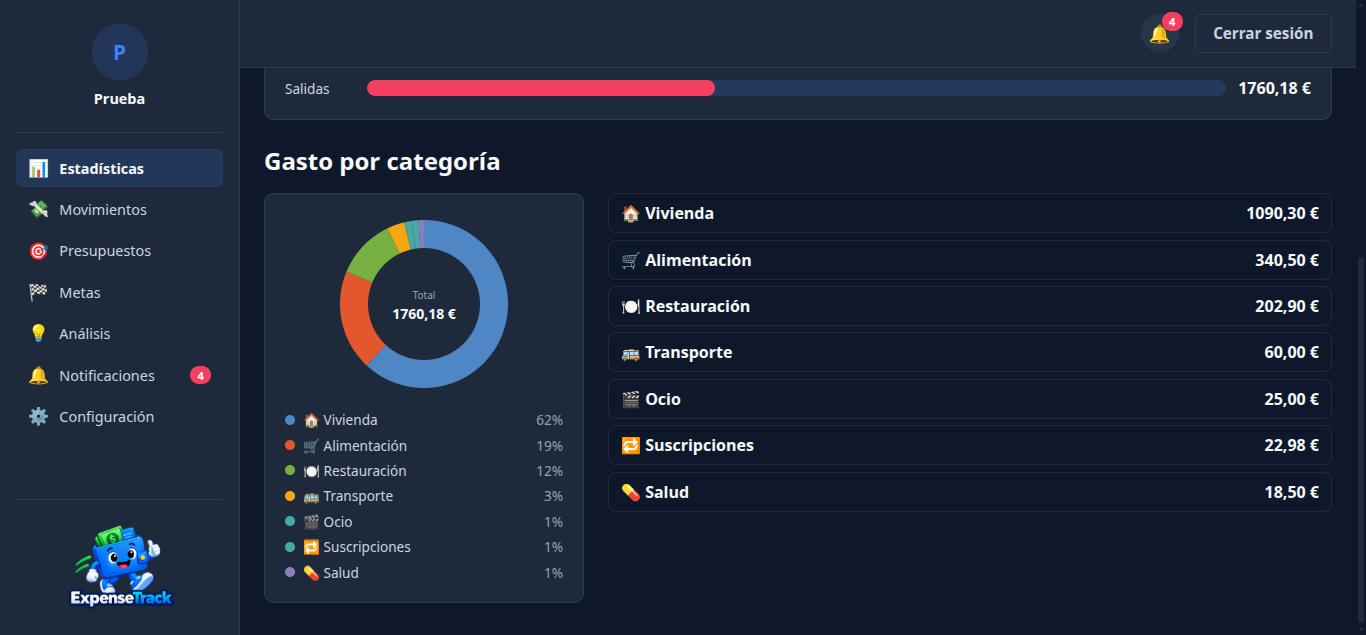
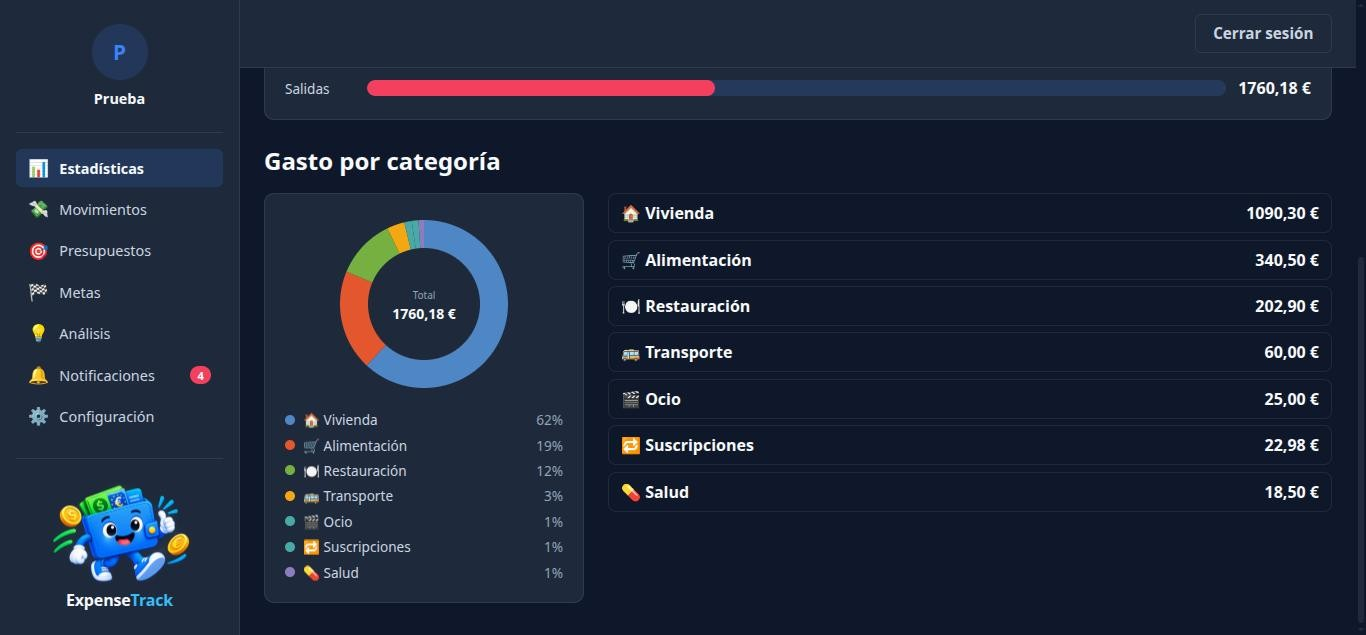
docs: capturas del README actualizadas y vista móvil
Capturas nuevas con la mascota y sin la campanita repetida; se añaden el
inicio de sesión y la vista móvil (barra inferior y panel «Más»). La
portada del README usa la mascota nueva, como la app.

Changed region(s): [[0.0307, 0.748, 0.1537, 0.9575], [0.8302, 0.0, 0.8917, 0.0898]]

diff --git a/README.md b/README.md
@@ -1,5 +1,5 @@
 <p align="center">
-  <img src="frontend/public/logo.png" alt="ExpenseTrack" width="160">
+  <img src="frontend/public/mascota.png" alt="Mascota de ExpenseTrack: una cartera azul sonriente" width="220">
 </p>
 
 <h1 align="center">ExpenseTrack</h1>
@@ -41,9 +41,15 @@ ayuda de un asistente de IA, con tests y documentación.
 |---|---|
 | ![Movimientos del mes con el total por categoría](docs/screenshots/movimientos.jpg) | ![Presupuestos mensuales con estado y ritmo de gasto](docs/screenshots/presupuestos.jpg) |
 
-| Metas de ahorro |
-|---|
-| ![Metas de ahorro con su progreso](docs/screenshots/metas.jpg) |
+| Metas de ahorro | Inicio de sesión |
+|---|---|
+| ![Metas de ahorro con su progreso](docs/screenshots/metas.jpg) | ![Inicio de sesión con la mascota](docs/screenshots/login.jpg) |
+
+**Vista móvil**: barra de navegación abajo y panel «Más» con el resto de secciones.
+
+<p align="center">
+  <img src="docs/screenshots/movil.jpg" alt="Vista móvil: presupuestos con la barra inferior y el panel «Más» abierto" width="640">
+</p>
 
 ## Funcionalidades
 
@@ -56,6 +62,7 @@ ayuda de un asistente de IA, con tests y documentación.
 - **Dashboard mensual**: entradas, salidas, saldo neto, gasto fijo y variable y gasto por categoría, para todas las cuentas o una sola.
 - **Análisis**: detección de pagos recurrentes y de "gasto hormiga" con umbrales configurables.
 - **Autenticación** con email y contraseña o con Google, tokens de acceso de corta duración y refresh tokens rotativos.
+- **Diseño adaptado al móvil**: en pantallas pequeñas, el menú lateral se convierte en una barra de navegación abajo, al alcance del pulgar.
 - **API documentada en español** en `/docs` y `/redoc`, con su contrato versionado en [`backend/openapi.json`](backend/openapi.json).
 
 ## Tecnologías
